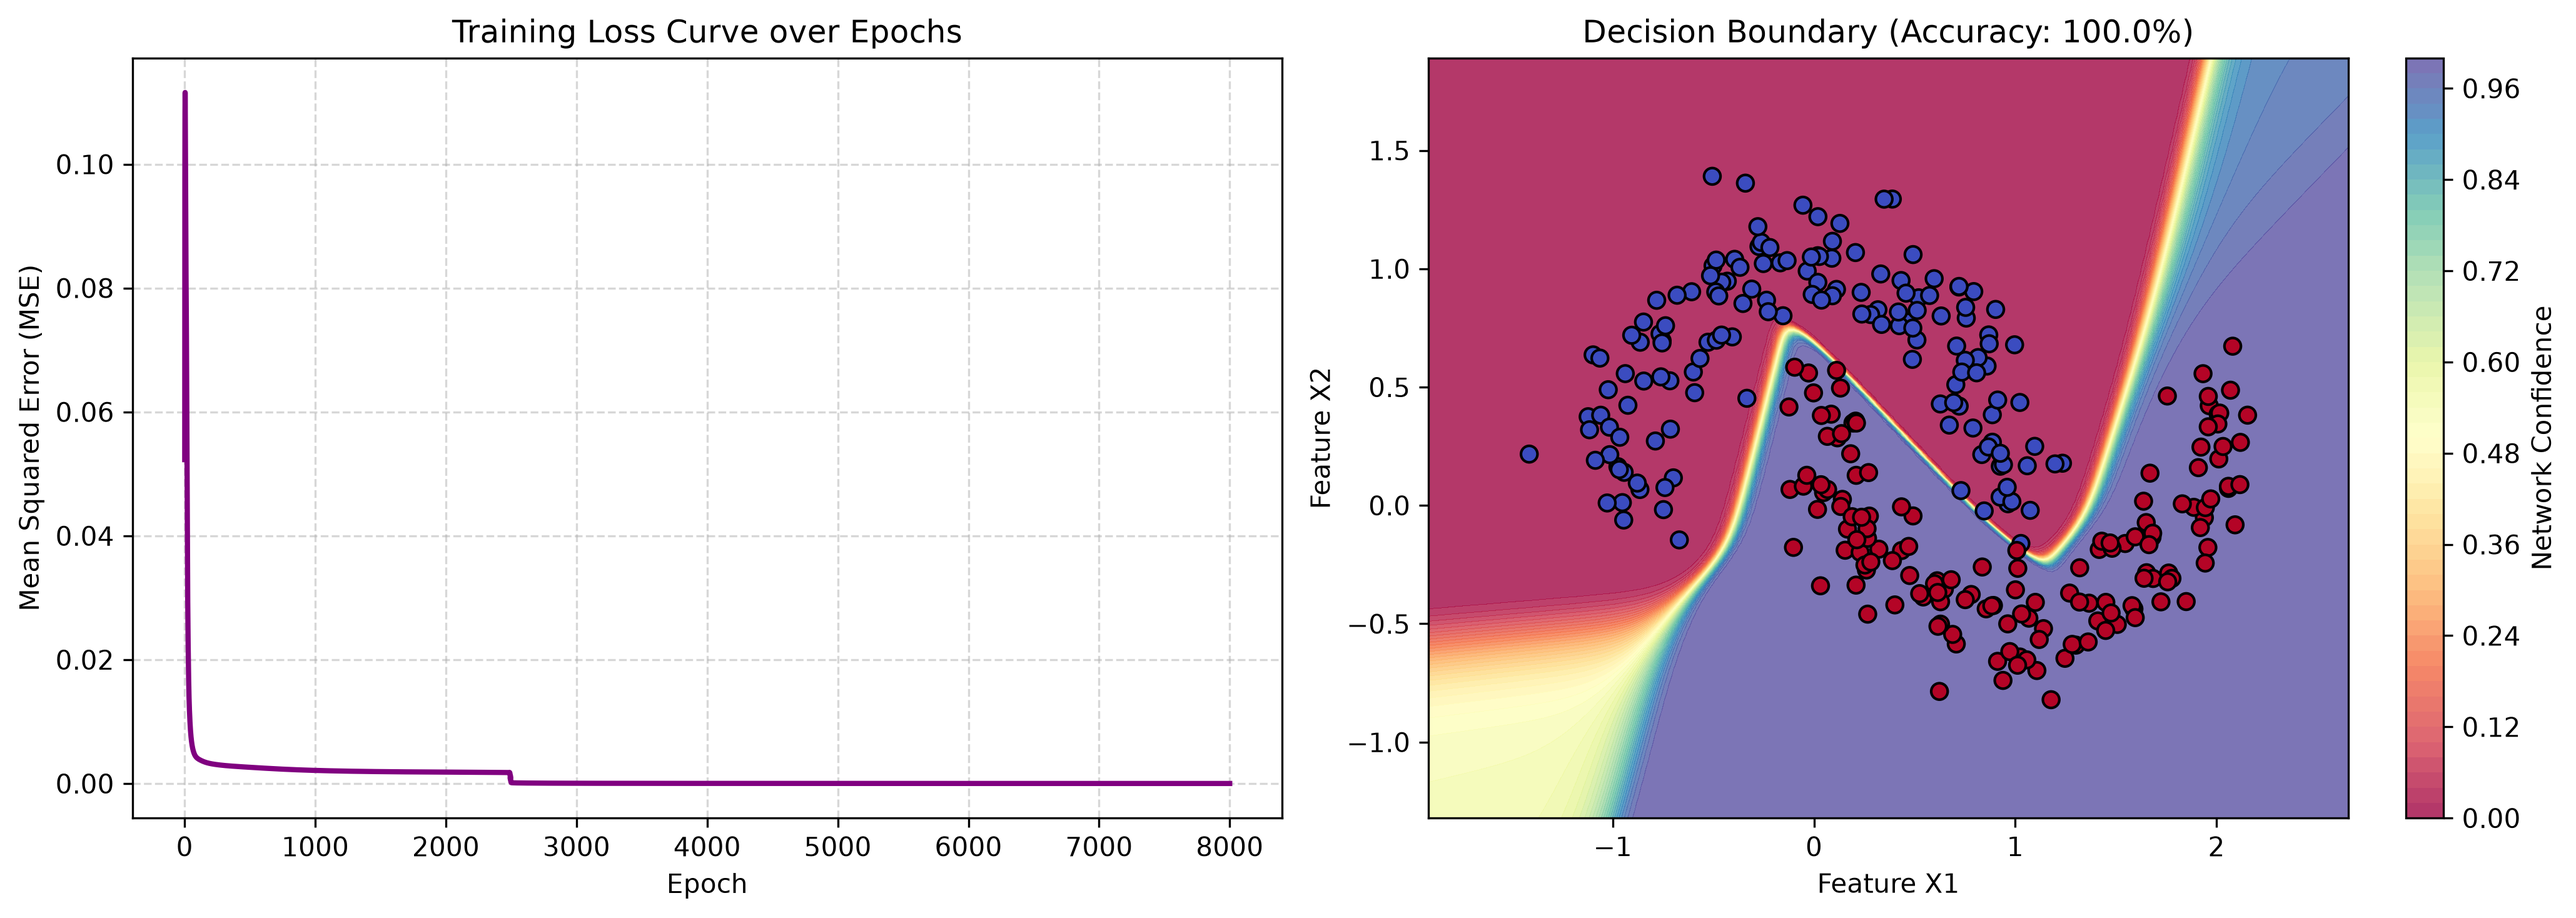
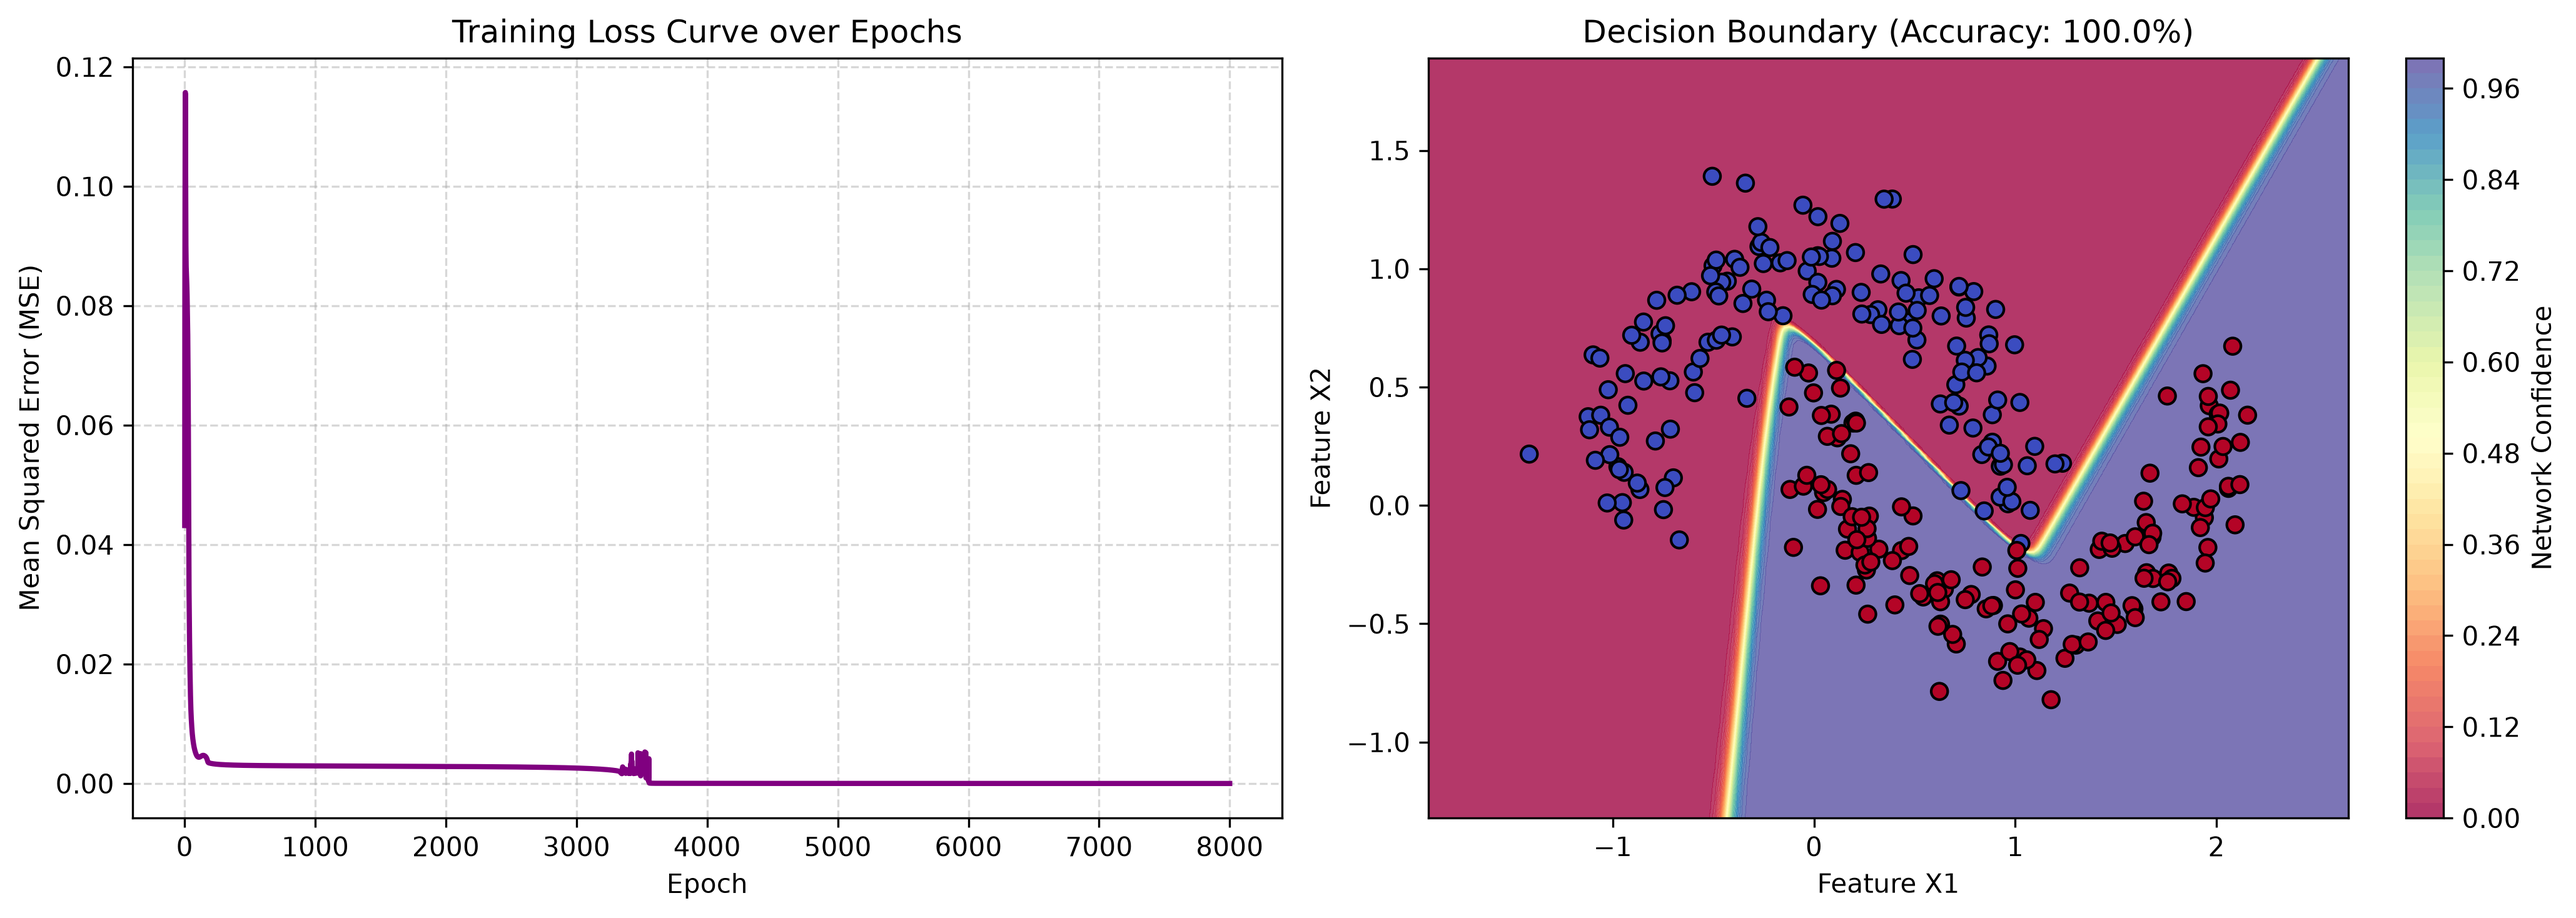
fix: dataset visualization added

diff --git a/dataset.py b/dataset.py
@@ -31,4 +31,7 @@ if __name__ == "__main__":
     plt.xlabel("Feature X1")
     plt.ylabel("Feature X2")
     plt.grid(True, linestyle='--', alpha=0.5)
+    plt.tight_layout()
+    plt.savefig('raw_moons.png', dpi=300, bbox_inches='tight')
     plt.show()
+    
